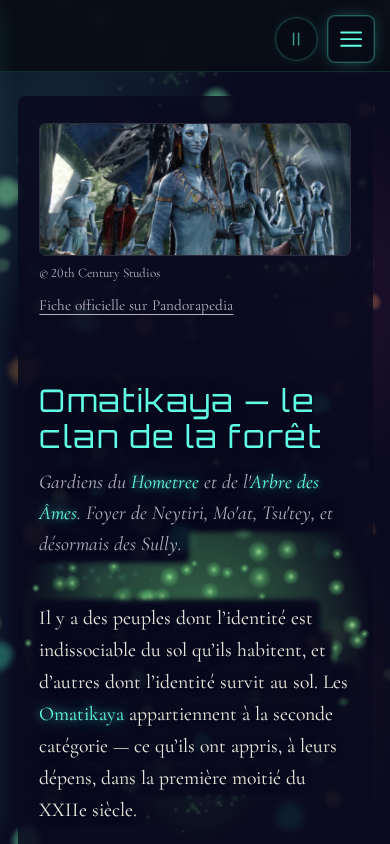
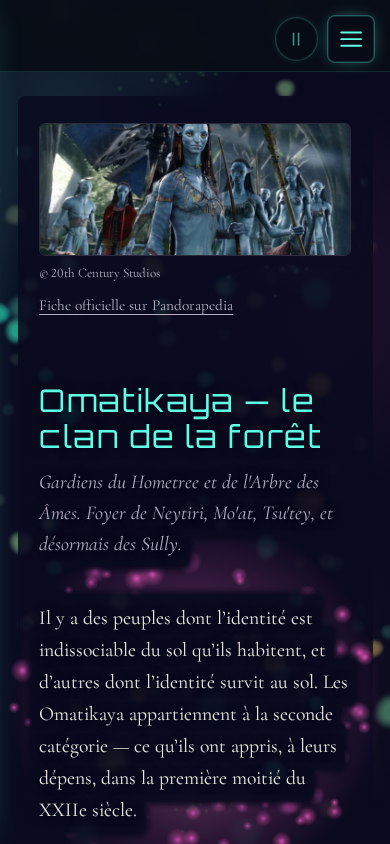
fix(L32): fondu doux au bord du masque de la mousse, plus d'aplats à bord net (D-6)
- Masque : marge pleine de 5 px puis fondu de 12 px en 8 couronnes de 1,5 px
  (opacity de groupe = union des boîtes, courbe en S), au lieu de deux paliers
  de 2 px. Toujours sans flou SVG (trop lent au rendu).
- Une ligne de texte couvre tout son interligne : plus de couture claire entre
  deux lignes d'un même paragraphe.
- Mesure (masque seul, tache unie, paires de pixels voisins à marche > 25 %) :
  390 px titre 3473 → 10, 1440 px paragraphe 1665 → 0 ; plus grande marche
  0,50 → 0,30 et 0,49 → 0,18.
- Le « pavé » de 1440 px n'était pas la mousse : la capture pleine page fige
  le canvas fixe des particules et le menu collant à 900 px (présent aussi
  mousse masquée). Noté dans CLAUDE.md : capturer fenêtre agrandie.
- Nouveautés : capture de l'entrée L32 refaite (elle montrait les aplats).

diff --git a/frontend/src/lib/bio-moss.ts b/frontend/src/lib/bio-moss.ts
@@ -121,12 +121,34 @@ export function mossSprite(seed: number, [r, g, b]: Rgb, { spread = false } = {}
 export interface Box { x: number; y: number; w: number; h: number }
 
 /**
- * Marge noire pleine autour d'une ligne de texte ou d'un contrôle, puis fondu du bord en deux
- * paliers (px). Pas de flou SVG : rastérisé sur le fil principal, il retardait chaque page
- * (feGaussianBlur sur ~30 masques : test R7 d'illustrations 5,6 s → 47 s).
+ * Marge noire pleine autour d'une ligne de texte ou d'un contrôle (SHIELD_PAD_PX), puis fondu doux
+ * du noir vers la mousse sur SHIELD_FADE_PX (D-6 : les deux paliers de 2 px laissaient des aplats à
+ * bord net). Pas de flou SVG : rastérisé sur le fil principal, il retardait chaque page
+ * (feGaussianBlur sur ~30 masques : test R7 d'illustrations 5,6 s → 47 s). Le fondu est fait de
+ * SHIELD_FADE_STEPS couronnes de 1,5 px, chacune un groupe à `opacity` (l'union de ses boîtes, sans
+ * assombrir là où deux lignes se recouvrent), dont le produit suit une courbe en S.
  */
 export const SHIELD_PAD_PX = 5;
-export const SHIELD_FEATHER: readonly [number, number][] = [[9, 0.35], [7, 0.6]];
+export const SHIELD_FADE_PX = 12;
+export const SHIELD_FADE_STEPS = 8;
+
+/**
+ * Couronnes du fondu, de l'intérieur vers l'extérieur : [distance au bord de la boîte (px), opacité
+ * du noir]. Entre les couronnes j-1 et j, la mousse garde la part smoothstep((j - ½) / n) de son
+ * éclat (produit des transparences des couronnes j..n) ; au-delà de la dernière, toute.
+ */
+export const SHIELD_FEATHER: readonly [number, number][] = (() => {
+  const n = SHIELD_FADE_STEPS;
+  const keep = (j: number) => {
+    if (j > n) return 1;
+    const t = (j - 0.5) / n;
+    return t * t * (3 - 2 * t);
+  };
+  return Array.from({ length: n }, (_, i) => {
+    const j = i + 1;
+    return [SHIELD_PAD_PX + (j * SHIELD_FADE_PX) / n, 1 - keep(j) / keep(j + 1)] as [number, number];
+  });
+})();
 
 /** Toucher : une tache par toucher bref et presque immobile ; un glissement (défilement) n'allume rien. */
 export const MOSS_TAP_PX = 12;
@@ -153,7 +175,7 @@ export function shieldMask(cell: Box, shields: Box[]): string | null {
   const hit = shields.filter((s) => intersects(inflate(s, outer), cell));
   if (!hit.length) return null;
   const f = (n: number) => n.toFixed(1);
-  const layer = (d: number, op: number) => `<g fill-opacity="${op}">${hit.map((s) => {
+  const layer = (d: number, op: number) => `<g opacity="${op.toFixed(3)}">${hit.map((s) => {
     const r = inflate(s, d);
     return `<rect x="${f(r.x - cell.x)}" y="${f(r.y - cell.y)}" width="${f(r.w)}" height="${f(r.h)}" rx="${f(d)}"/>`;
   }).join('')}</g>`;

diff --git a/docs/nouveautes/2026-11-21-pandora-s-allume-sous-tes-pas.md b/docs/nouveautes/2026-11-21-pandora-s-allume-sous-tes-pas.md
@@ -3,12 +3,12 @@ title: "Pandora s'allume sous tes pas"
 date: 2026-11-21
 created: 2026-11-21T12:30+01:00
 lots: [L32]
-captures: [{ file: captures/L32-fiche-390.png, alt: "La fiche des Omatikaya sur téléphone, juste après un toucher sur le premier paragraphe : de la mousse lumineuse verte brille autour, entre le sous-titre et le paragraphe et dans les marges, sans passer sous les lignes de texte" }]
+captures: [{ file: captures/L32-fiche-390.png, alt: "La fiche des Omatikaya sur téléphone, juste après un toucher sur le premier paragraphe : de la mousse lumineuse rose brille autour, entre le sous-titre et le paragraphe et dans les marges, et s'efface en douceur à l'approche des lignes de texte, sans passer dessous" }]
 ---
 Comme la mousse de la forêt sous les pieds de Jake, le fond de l'accueil et du codex s'allume maintenant autour de ton doigt ou de ta souris.
 
 Un passage de la souris fait naître une tache de mousse lumineuse qui s'étend, puis s'éteint en trois secondes. Un toucher ou un clic en fait naître une plus grande, qui s'éteint en un peu plus de quatre secondes. Au repos, quelques taches très faibles restent visibles.
 
-La mousse s'allume autour des mots, jamais dessous : les phrases, les images, les boutons et le menu du codex restent nets. Faire défiler la page du doigt n'allume rien.
+La mousse s'allume autour des mots, jamais dessous : elle s'estompe en douceur à leur approche, et les phrases, les images, les boutons et le menu du codex restent nets. Faire défiler la page du doigt n'allume rien.
 
 Le bouton de pause de l'ambiance l'arrête avec le reste. Si ton appareil demande de réduire les animations, rien ne s'allume.

diff --git a/CLAUDE.md b/CLAUDE.md
@@ -33,7 +33,9 @@ Lumière au toucher (L32) : `components/BioMoss.astro` (accueil + codex) — tac
 (transform/opacity, pas de canvas : un canvas 2D bloquait la page ~85 s en Chromium sans tête), arrêtées par la pause, absentes en
 mouvement réduit. Le calque couvre le document, AU-DESSUS du fond des cartes, et chaque tache porte un masque (`shieldMask`,
 `mask-mode: luminance`) qui l'efface sous chaque ligne de texte, image, contrôle et sous la bande du menu ≥ 1024 px : jamais rien de
-lisible sur la mousse (revue UX L32, le menu tombait à 1,91:1). Toucher = allumé au lever du doigt, sans glissement. Contrôlé par
+lisible sur la mousse (revue UX L32, le menu tombait à 1,91:1). Bord du masque en fondu doux de 12 px (D-6 : 8 couronnes en `opacity` de
+groupe, pas de flou SVG, trop lent) ; une ligne de texte couvre tout son interligne. Une capture « pleine page » se fait fenêtre
+agrandie à la hauteur du document : sinon le canvas fixe des particules et le menu collant s'arrêtent à 900 px (faux « pavé »). Toucher = allumé au lever du doigt, sans glissement. Contrôlé par
 `scripts/bio-moss.e2e.test.mjs` (contraste au pire pixel avec et sans mousse, menu compris ; visibilité autour du doigt à 390 px).
 
 Pattern technique réutilisable : `CinemaCanvas` mode `'time'` + `CycleBackdrop` qui cross-fade les images sur le même clock. Voir `frontend/src/components/cinema/`.
